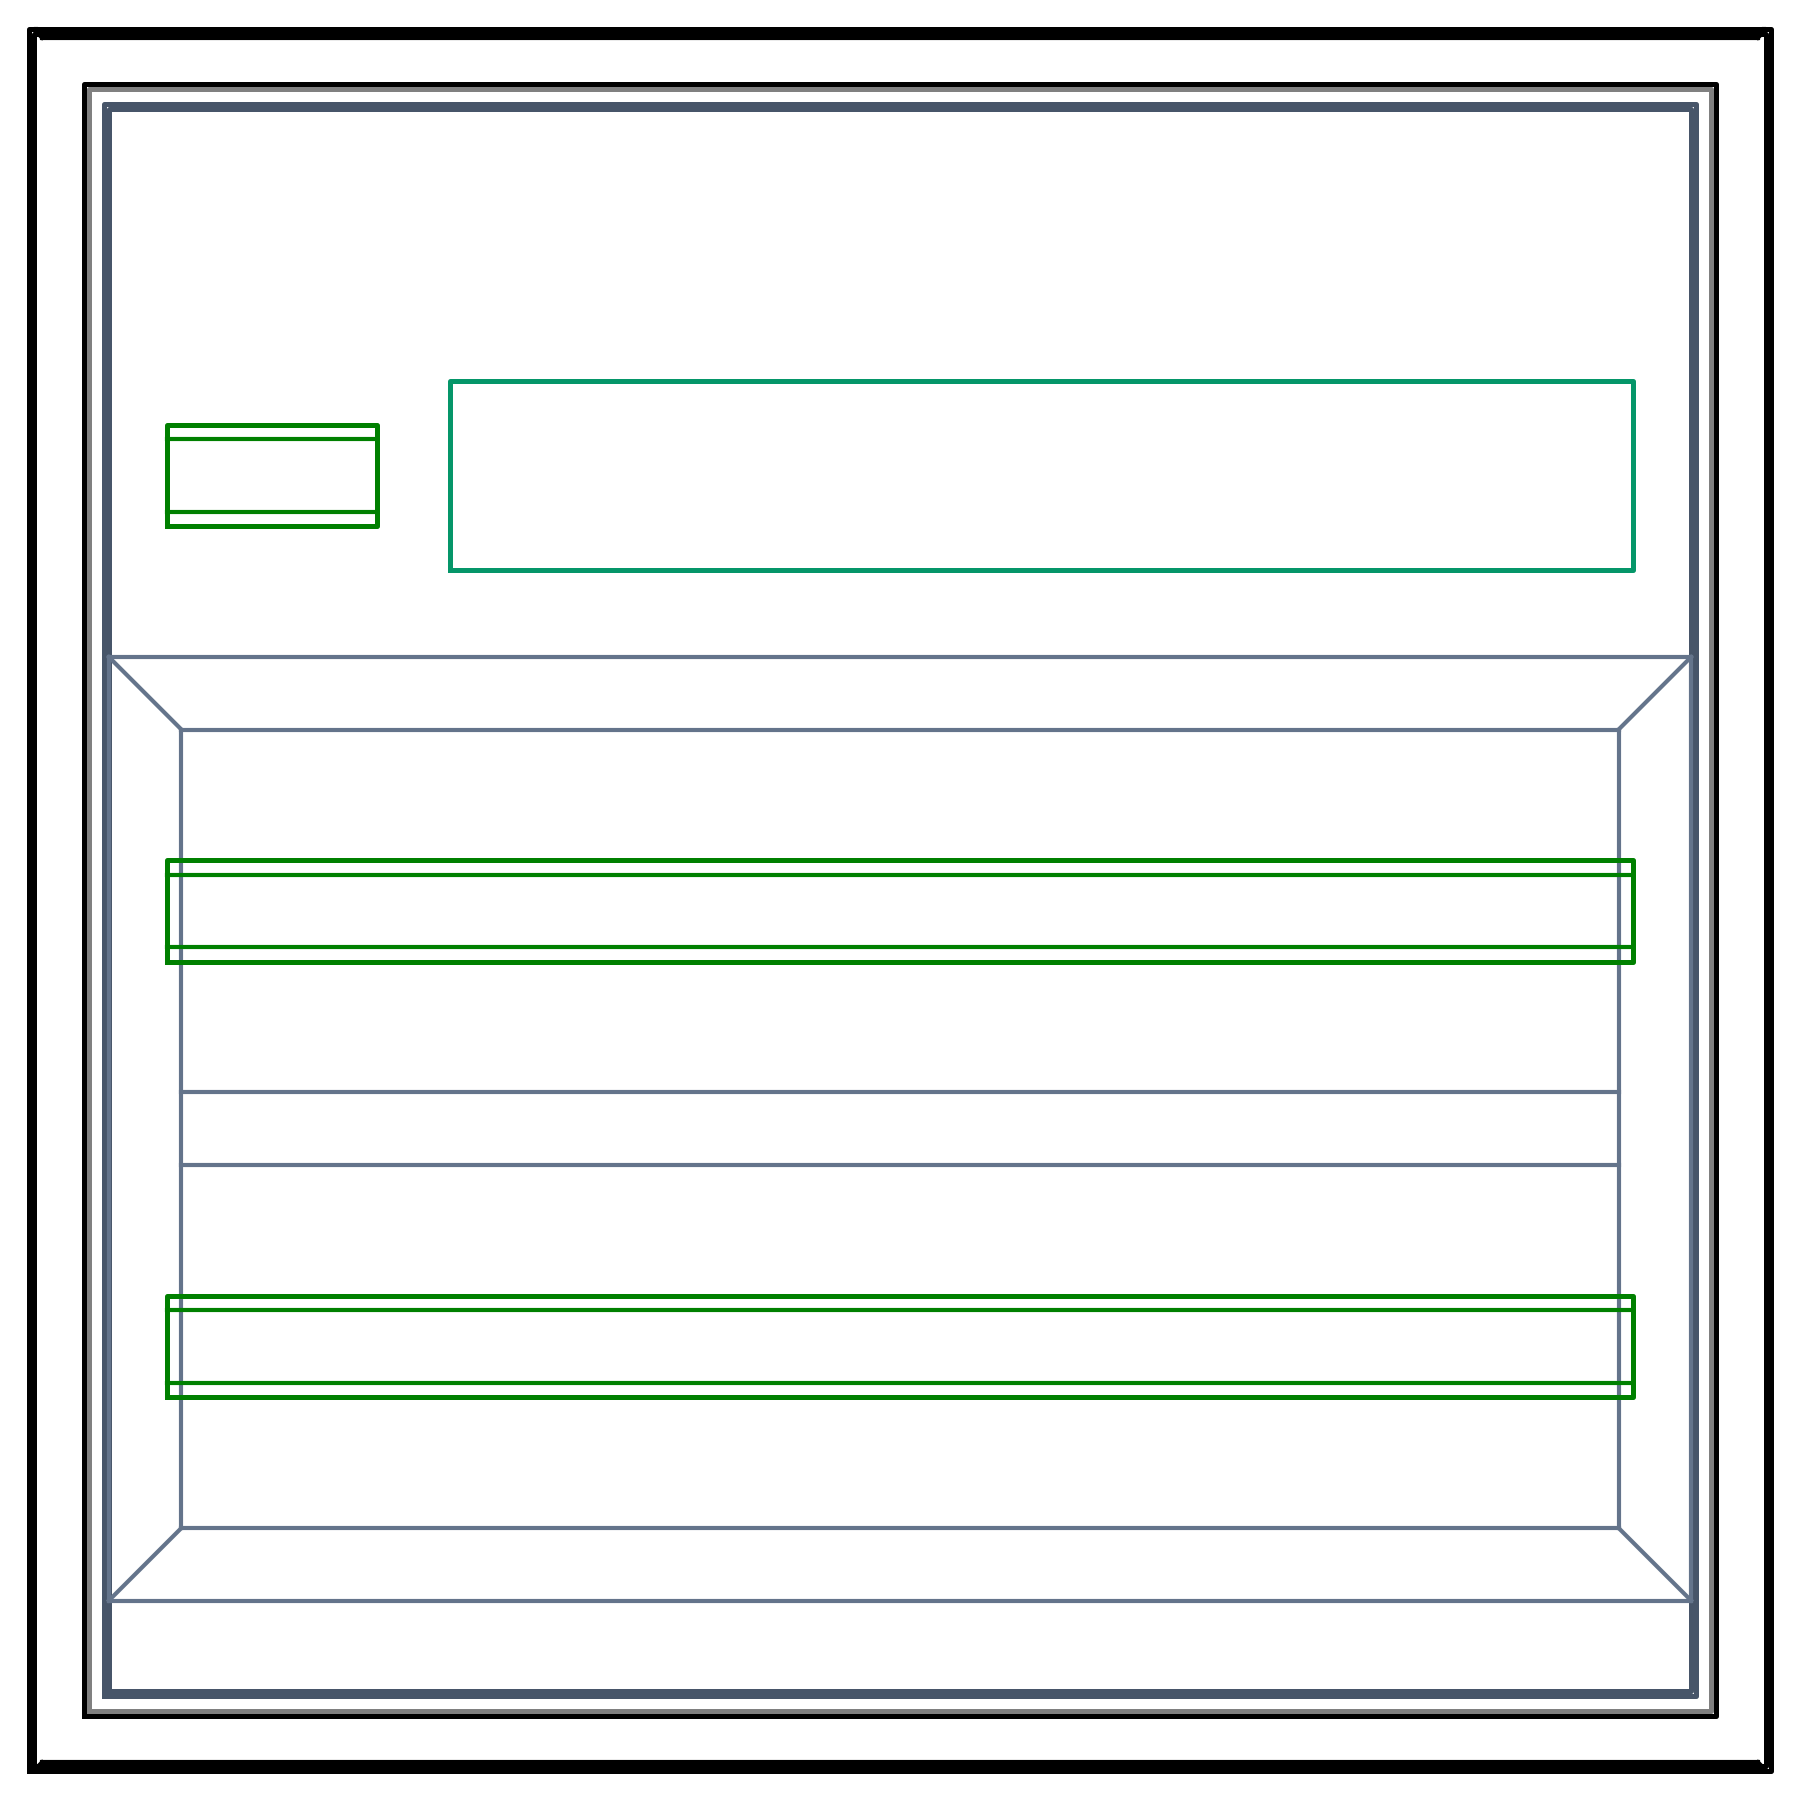
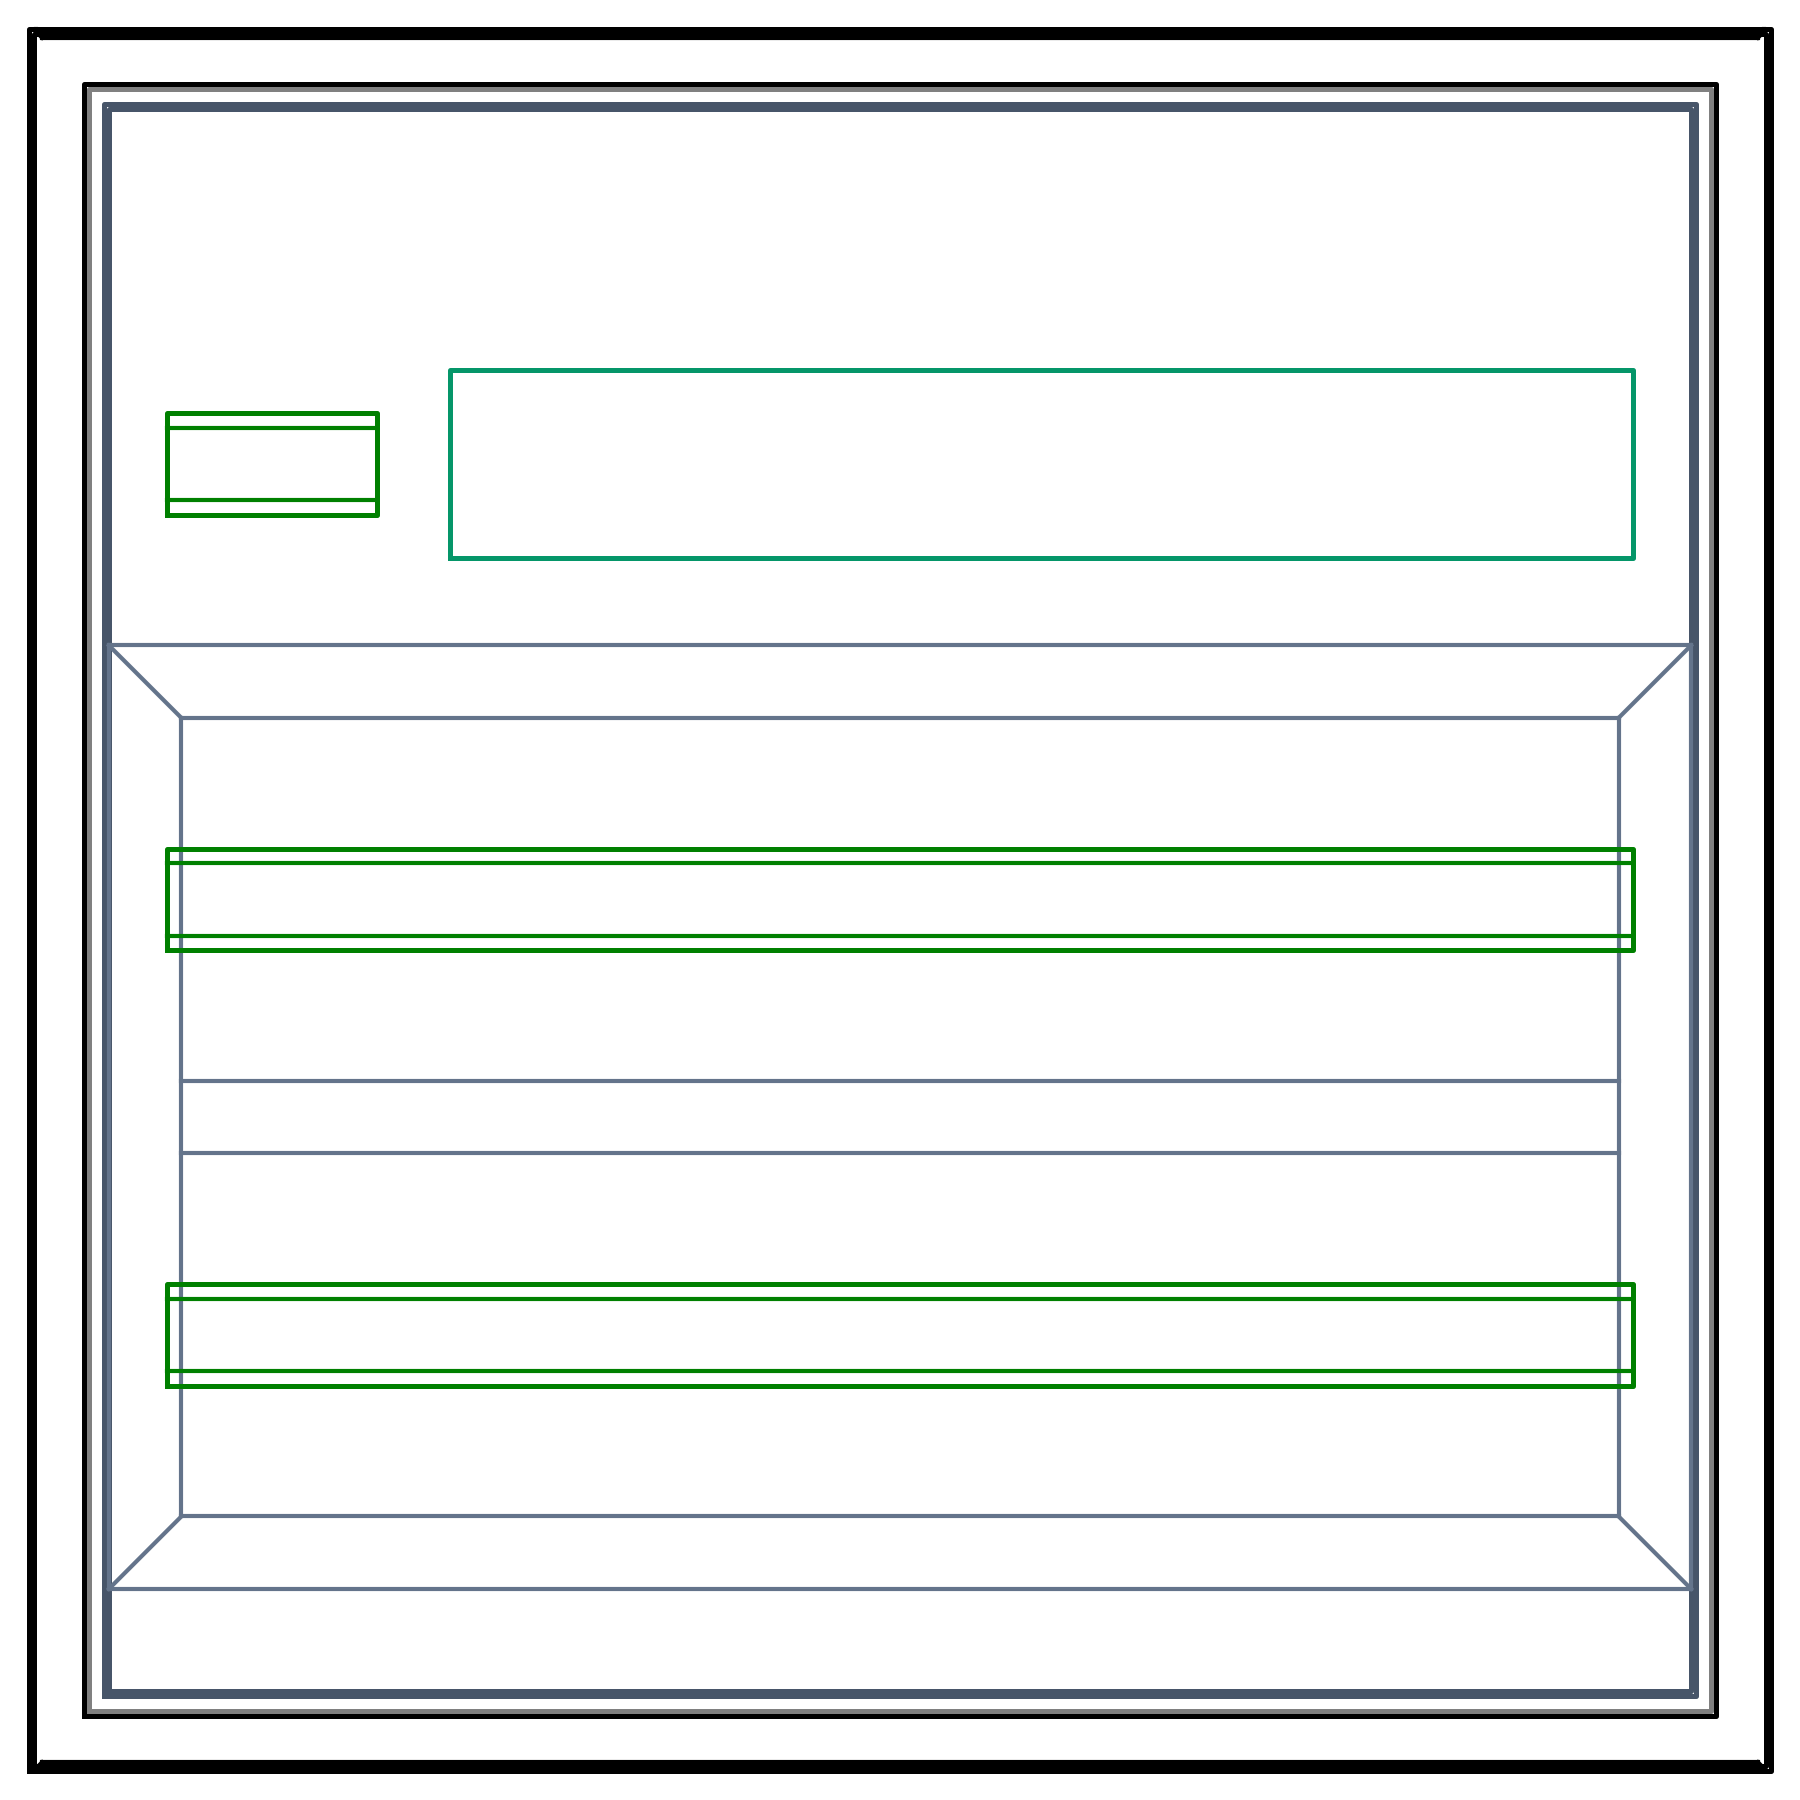
fix(cad): recalibrar cota del 1er riel DIN a 104.80mm exactos desde el borde superior de la bandeja

diff --git a/frontend/src/cad/generators/boardCadGenerator.ts b/frontend/src/cad/generators/boardCadGenerator.ts
@@ -31,7 +31,7 @@ export const NOLLMANN_NIS_GEOMETRY = {
   RADIO_MARCO_INT: 1.60,       // Radio de esquina interior de marco
   TAPA_ESPESOR_MM: 3.00,       // Grosor de tapas superior e inferior
   TAPA_BISEL_MM: 2.00,         // Cateto de bisel a 45°
-  DIN_FIRST_ROW_Y_FROM_TOP: 153.80, // Y del 1er riel DIN desde el borde superior nominal (Y=0), logrando 108.80mm desde borde de bandeja
+  DIN_FIRST_ROW_Y_FROM_TOP: 149.80, // Y del 1er riel DIN desde el borde superior nominal (Y=0), logrando 104.80mm desde borde de bandeja
   DIN_ROW_STEP_Y: 150.00,      // Paso constante entre rieles DIN (150mm)
 };
 

diff --git a/generar_armario_dxf.py b/generar_armario_dxf.py
@@ -21,7 +21,7 @@ TAPA_ESPESOR = 3.00     # Grosor tapa pasacables (mm)
 TAPA_BISEL = 2.00       # Cateto bisel a 45° (mm)
 
 # Posicionamiento Rieles DIN 35 desde borde superior nominal (Y=0)
-DIN_FIRST_Y_FROM_TOP = 153.80         # 153.80mm desde el borde superior nominal (108.80mm desde borde de bandeja)
+DIN_FIRST_Y_FROM_TOP = 149.80         # 149.80mm desde el borde superior nominal (104.80mm desde borde de bandeja)
 DIN_PASO_Y = 150.00                   # Paso constante entre filas (150mm)
 
 # Rieles DIN en gabinete 600x600 (3 filas, ordenadas de abajo hacia arriba en AutoCAD Y)
